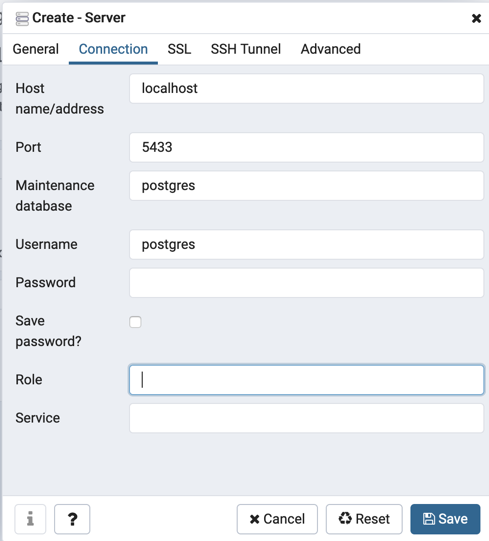
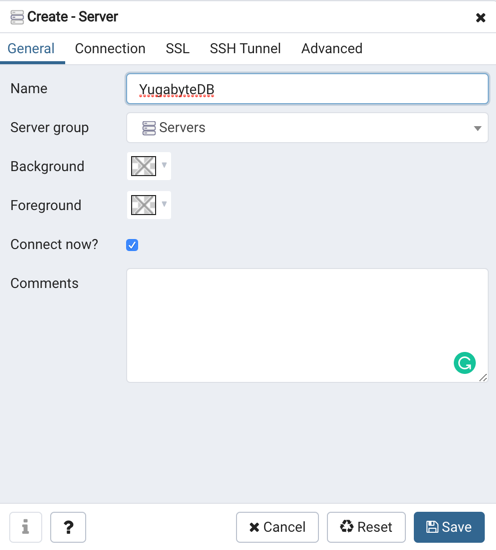
Add content and images for pgAdmin

diff --git a/docs/content/latest/tools/pgadmin.md b/docs/content/latest/tools/pgadmin.md
@@ -17,8 +17,48 @@ PgAdmin is a commonly used database management tool in the PostgresDB community.
 
 ## Before you begin
 
+To use SQL Workbench/J with YugabyteDB, you need to have YugabyteDB up and running, the required Java Runtime Environment and the required PostgreSQL JDBC driver.
+
+### YugabyteDB
+
+Your YugabyteDB cluster should be up and running. If you are new to YugabyteDB, you can quickly create a local cluster by following the steps in [Quick start](../../../quick-start/install).
+
+### PostgreSQL JDBC driver
+
+To connect pgAdmin to a YugabyteDB cluster, you need the PostgreSQL JDBC driver installed. To download the current version that supports Java 8 or later, go to the [PostgreSQL JDBC Driver download](https://jdbc.postgresql.org/download.html) page.
+
 ## Install pgAdmin
 
-## Configure
+To install pgAdmin, go to the [Download page](https://www.pgadmin.org/download/) and select the version of pgAdmin 4 for your operating system.
+
+## Configure pgAdmin
+
+1. Launch the pgAdmin 4 application, which opens in your default web browser. You will be prompted to save a master password for the application.
+
+![pgAdmin application](/images/develop/tools/pgadmin/pgadmin-new-window.png)
+
+2. Click **Add New Server**. The **Create - Server** window appears.
+
+3. In the **General** tab, enter a name for your server. In this example, `YugabyteDB` is entered.
+
+![Create server](/images/develop/tools/pgadmin/pgadmin-create-server.png)
+
+4. Click the **Connection** tab and fill in the following settings:
+
+- **Host name/address**: `localhost`
+- **Port**: `5433` (Default is `5432`)
+- **Maintenance database**: `yugabyte` (This is the default YugabyteDB database)
+- **Username**: `yugabyte` (This is the default YugabyteDB user)
+- **Password**: `yugabyte` (Leave blank if YSQL authentication is not enabled)
+
+5. Click **Save**. The new connection appears in the application. Expand **Databases** to see a list of all available databases.
+
+![Available databases](/images/develop/tools/pgadmin/pgadmin-list-of-available-databases.png)
+
+You have now created a database connection in pgAdmin and can begin exploring YugabyteDB databases.
 
 ## What's next
+
+Now that you know how to configure pgAdmin to work with your YugabyteDB databases, you can start exploring the features. For details on using pgAdmin, click **Help** in the pgAdmin menu.
+
+If you're looking for sample databases to explore YugabyteDB using SQL Workbench/J, see [Sample data](../../sample-data/).
